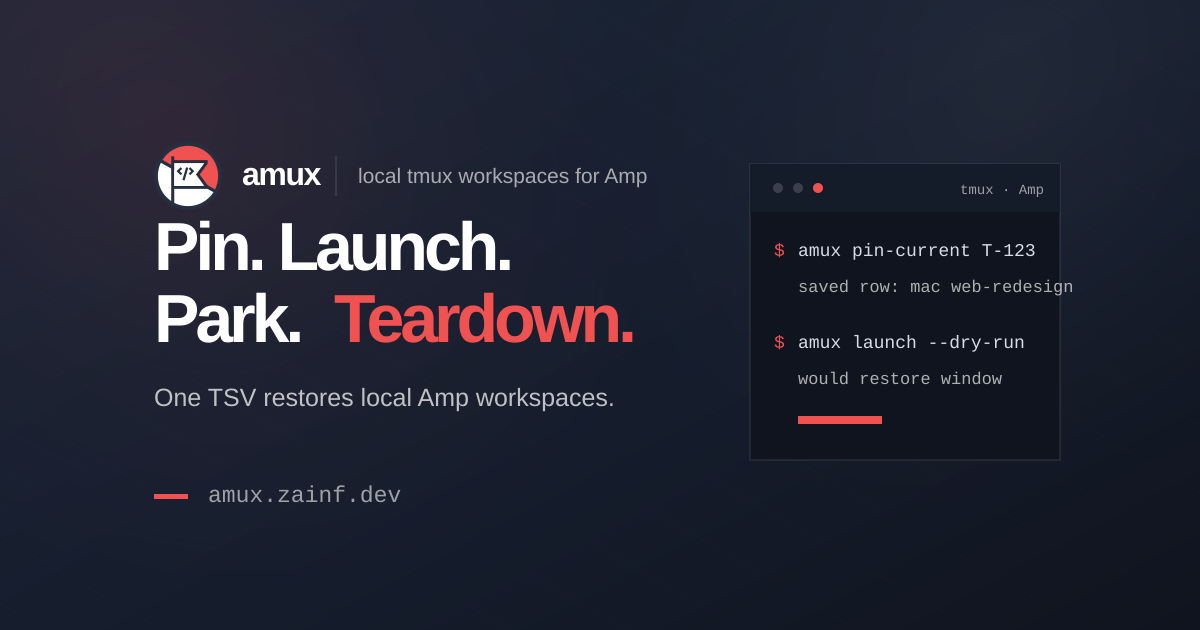
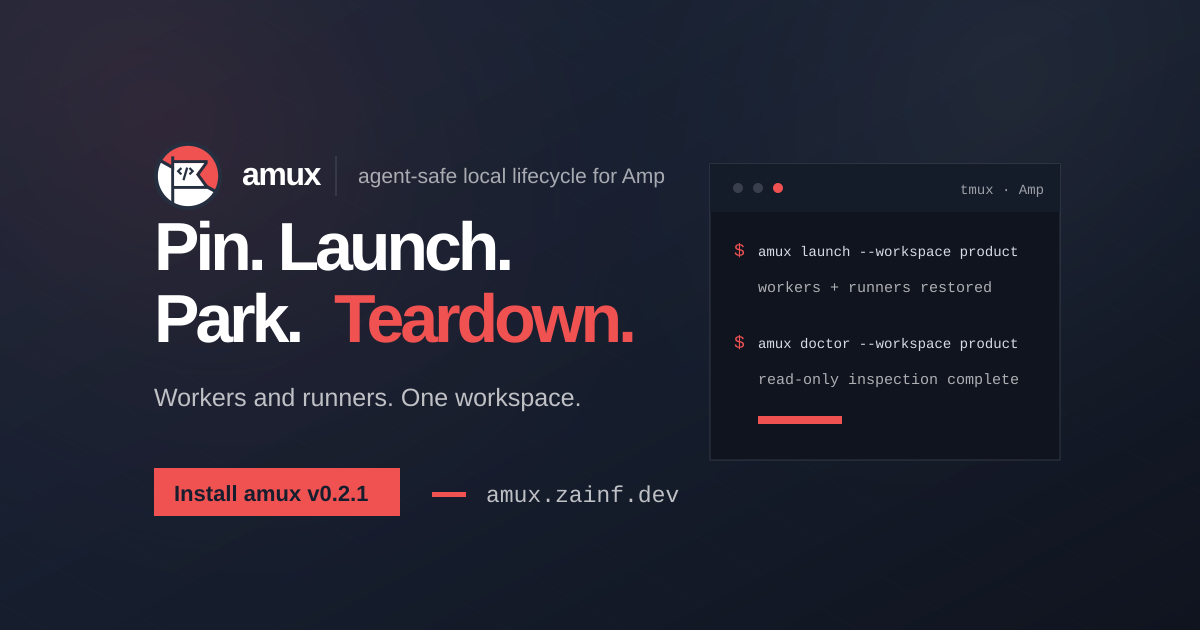
Prepare Pages for v0.2.1 (#144)
## Summary

- update the Pages release heading from v0.2.0 to v0.2.1
- present primary Git worktree ownership from #142 as released while
retaining linked-worktree lock and amux non-ownership wording
- add `og:site_name`, refresh the OG image metadata, and replace the
stale social card with matching 1200x630 SVG/PNG assets using current
canonical commands and an `Install amux v0.2.1` CTA

## Testing

- [x] `go test ./scripts`
- [x] Python stdlib HTML meta-tag and SVG XML assertions
- [x] `git diff --check`
- [x] Verified PNG format, sRGB colorspace, and exact 1200x630
dimensions with ImageMagick
- [x] Re-rendered the SVG with `rsvg-convert` and confirmed
byte-for-byte equality with the tracked PNG
- [x] Inspected the rendered PNG at native 1200x630 for readable,
unclipped text and current command syntax
- [x] Manually verified the full page at 1440px desktop and 390px mobile
widths, including the release cards and preserved animation control
- [x] This documentation-only PR does not need a build check

## Checklist

- [x] I described the user-visible impact and important release/version
distinction.
- [x] I updated documentation, metadata, and social assets for v0.2.1.
- [x] I checked for stale social-card commands, unreleased/v0.2.0
wording, accidental generated files, local artifacts, secrets, and
private data.

diff --git a/docs/index.html b/docs/index.html
@@ -9,6 +9,7 @@
       content="amux manages interactive Amp workers, no-TUI runners, and same-named tmux workspaces with explicit, agent-safe local lifecycle operations."
     />
     <meta property="og:title" content="amux — agent-safe local lifecycle for Amp" />
+    <meta property="og:site_name" content="amux" />
     <meta
       property="og:description"
       content="Manage interactive workers, no-TUI runners, and same-named tmux workspaces with explicit, agent-safe side effects."
@@ -18,7 +19,7 @@
     <meta property="og:image" content="https://amux.zainf.dev/og-image.png" />
     <meta property="og:image:width" content="1200" />
     <meta property="og:image:height" content="630" />
-    <meta property="og:image:alt" content="amux — agent-safe local lifecycle for Amp" />
+    <meta property="og:image:alt" content="amux v0.2.1 social card with Pin, Launch, Park, and Teardown; workers and runners in one workspace; install at amux.zainf.dev" />
     <meta name="twitter:card" content="summary_large_image" />
     <meta name="twitter:title" content="amux — agent-safe local lifecycle for Amp" />
     <meta name="twitter:description" content="Local lifecycle for Amp workers, runners, and tmux workspaces." />
@@ -865,7 +866,7 @@
             <div class="section-title-row">
               <div class="section-heading">
                 <span class="rule" aria-hidden="true"></span>
-                <h2 id="new-title">Latest release: v0.2.0.</h2>
+                <h2 id="new-title">Latest release: v0.2.1.</h2>
               </div>
               <a class="release-link" href="https://github.com/zainfathoni/amux/releases">All releases →</a>
             </div>
@@ -895,8 +896,8 @@
                 <p>First-class maintenance for <code>amp --no-tui</code> runners, which never own remote agent threads.</p>
               </article>
               <article class="api-card">
-                <code>UNRELEASED · main 5e52313</code>
-                <p>Primary Git worktrees are now inherently stable. This is not in v0.2.0: that release effectively requires a locked linked worktree. Linked worktrees remain locked, and amux never locks or unlocks them.</p>
+                <code>stable runner ownership</code>
+                <p>Primary Git worktrees are inherently stable. Linked worktrees must already be locked; amux verifies linked-worktree locks but never locks or unlocks worktrees.</p>
               </article>
             </div>
           </div>